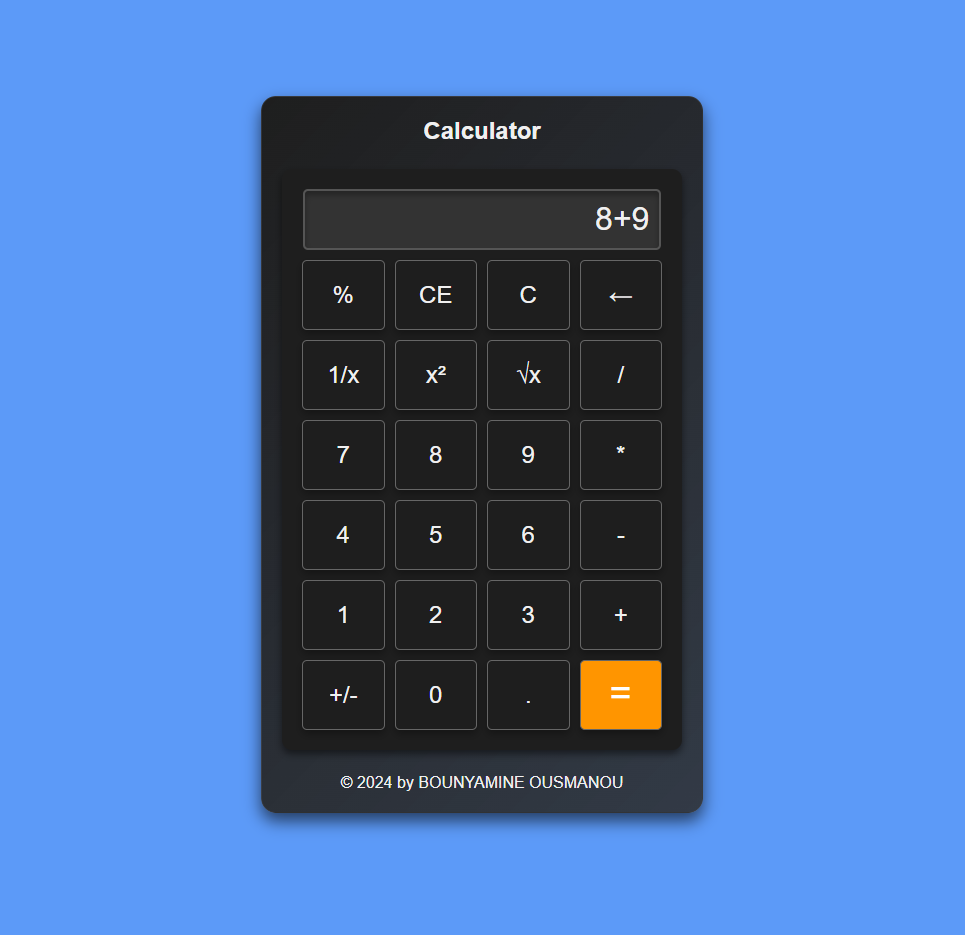
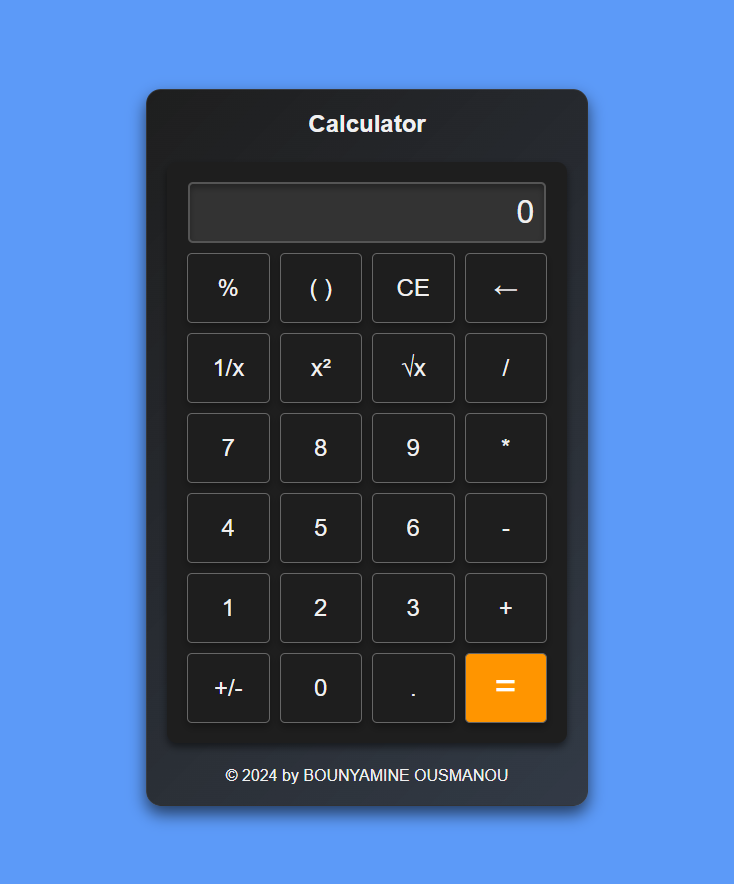
update

diff --git a/src/App.js b/src/App.js
@@ -38,10 +38,28 @@ const App = () => {
 
   const populateSign = () => {
     setScreen((prev) => {
-      if (prev === '0') return prev;
-      return prev.startsWith('-') ? prev.slice(1) : '-' + prev;
+      // Séparation en tokens pour gérer les différentes parties de l'expression
+      const tokens = prev.match(/([+\-*/()]|\d+(\.\d+)?)/g) || [];
+  
+      // Si aucun nombre, on retourne simplement l'expression précédente
+      if (!tokens.length) return prev;
+  
+      // On récupère le dernier token (nombre ou opérateur)
+      const lastToken = tokens.pop();
+  
+      // Si le dernier token est un nombre, on change son signe
+      if (!isNaN(lastToken)) {
+        const newToken = parseFloat(lastToken) > 0 ? '-' + lastToken : lastToken.slice(1);
+        tokens.push(newToken);
+      } else {
+        // Si ce n'est pas un nombre, on remet l'ancien token
+        tokens.push(lastToken);
+      }
+  
+      return tokens.join('');
     });
   };
+  
 
   const percentage = () => {
     const value = parseFloat(screen);
@@ -79,6 +97,23 @@ const App = () => {
     }
   };
 
+  const addParenthesis = () => {
+    setScreen((prev) => {
+      const openParentheses = (prev.match(/\(/g) || []).length;
+      const closeParentheses = (prev.match(/\)/g) || []).length;
+  
+      // Si le nombre de parenthèses ouvrantes est supérieur à celui des parenthèses fermantes,
+      // on ajoute une parenthèse fermante.
+      if (openParentheses > closeParentheses) {
+        return prev + ')';
+      } else {
+        // Sinon, on ajoute une parenthèse ouvrante.
+        return prev === '0' ? '(' : prev + '(';
+      }
+    });
+  };
+  
+
   return (
     <div className="container">
       <h2>Calculator</h2>
@@ -90,8 +125,8 @@ const App = () => {
           </div>
           <div className="keyboard">
             <div className="key" onClick={percentage}><span>%</span></div>
+            <div className="key" onClick={addParenthesis}><span>( )</span></div>
             <div className="key" onClick={deleteAll}><span>CE</span></div>
-            <div className="key" onClick={deleteAll}><span>C</span></div>
             <div className="key" onClick={deleteLast}><span>&larr;</span></div>
             <div className="key" onClick={inverse}><span>1/x</span></div>
             <div className="key" onClick={square}><span>x²</span></div>
